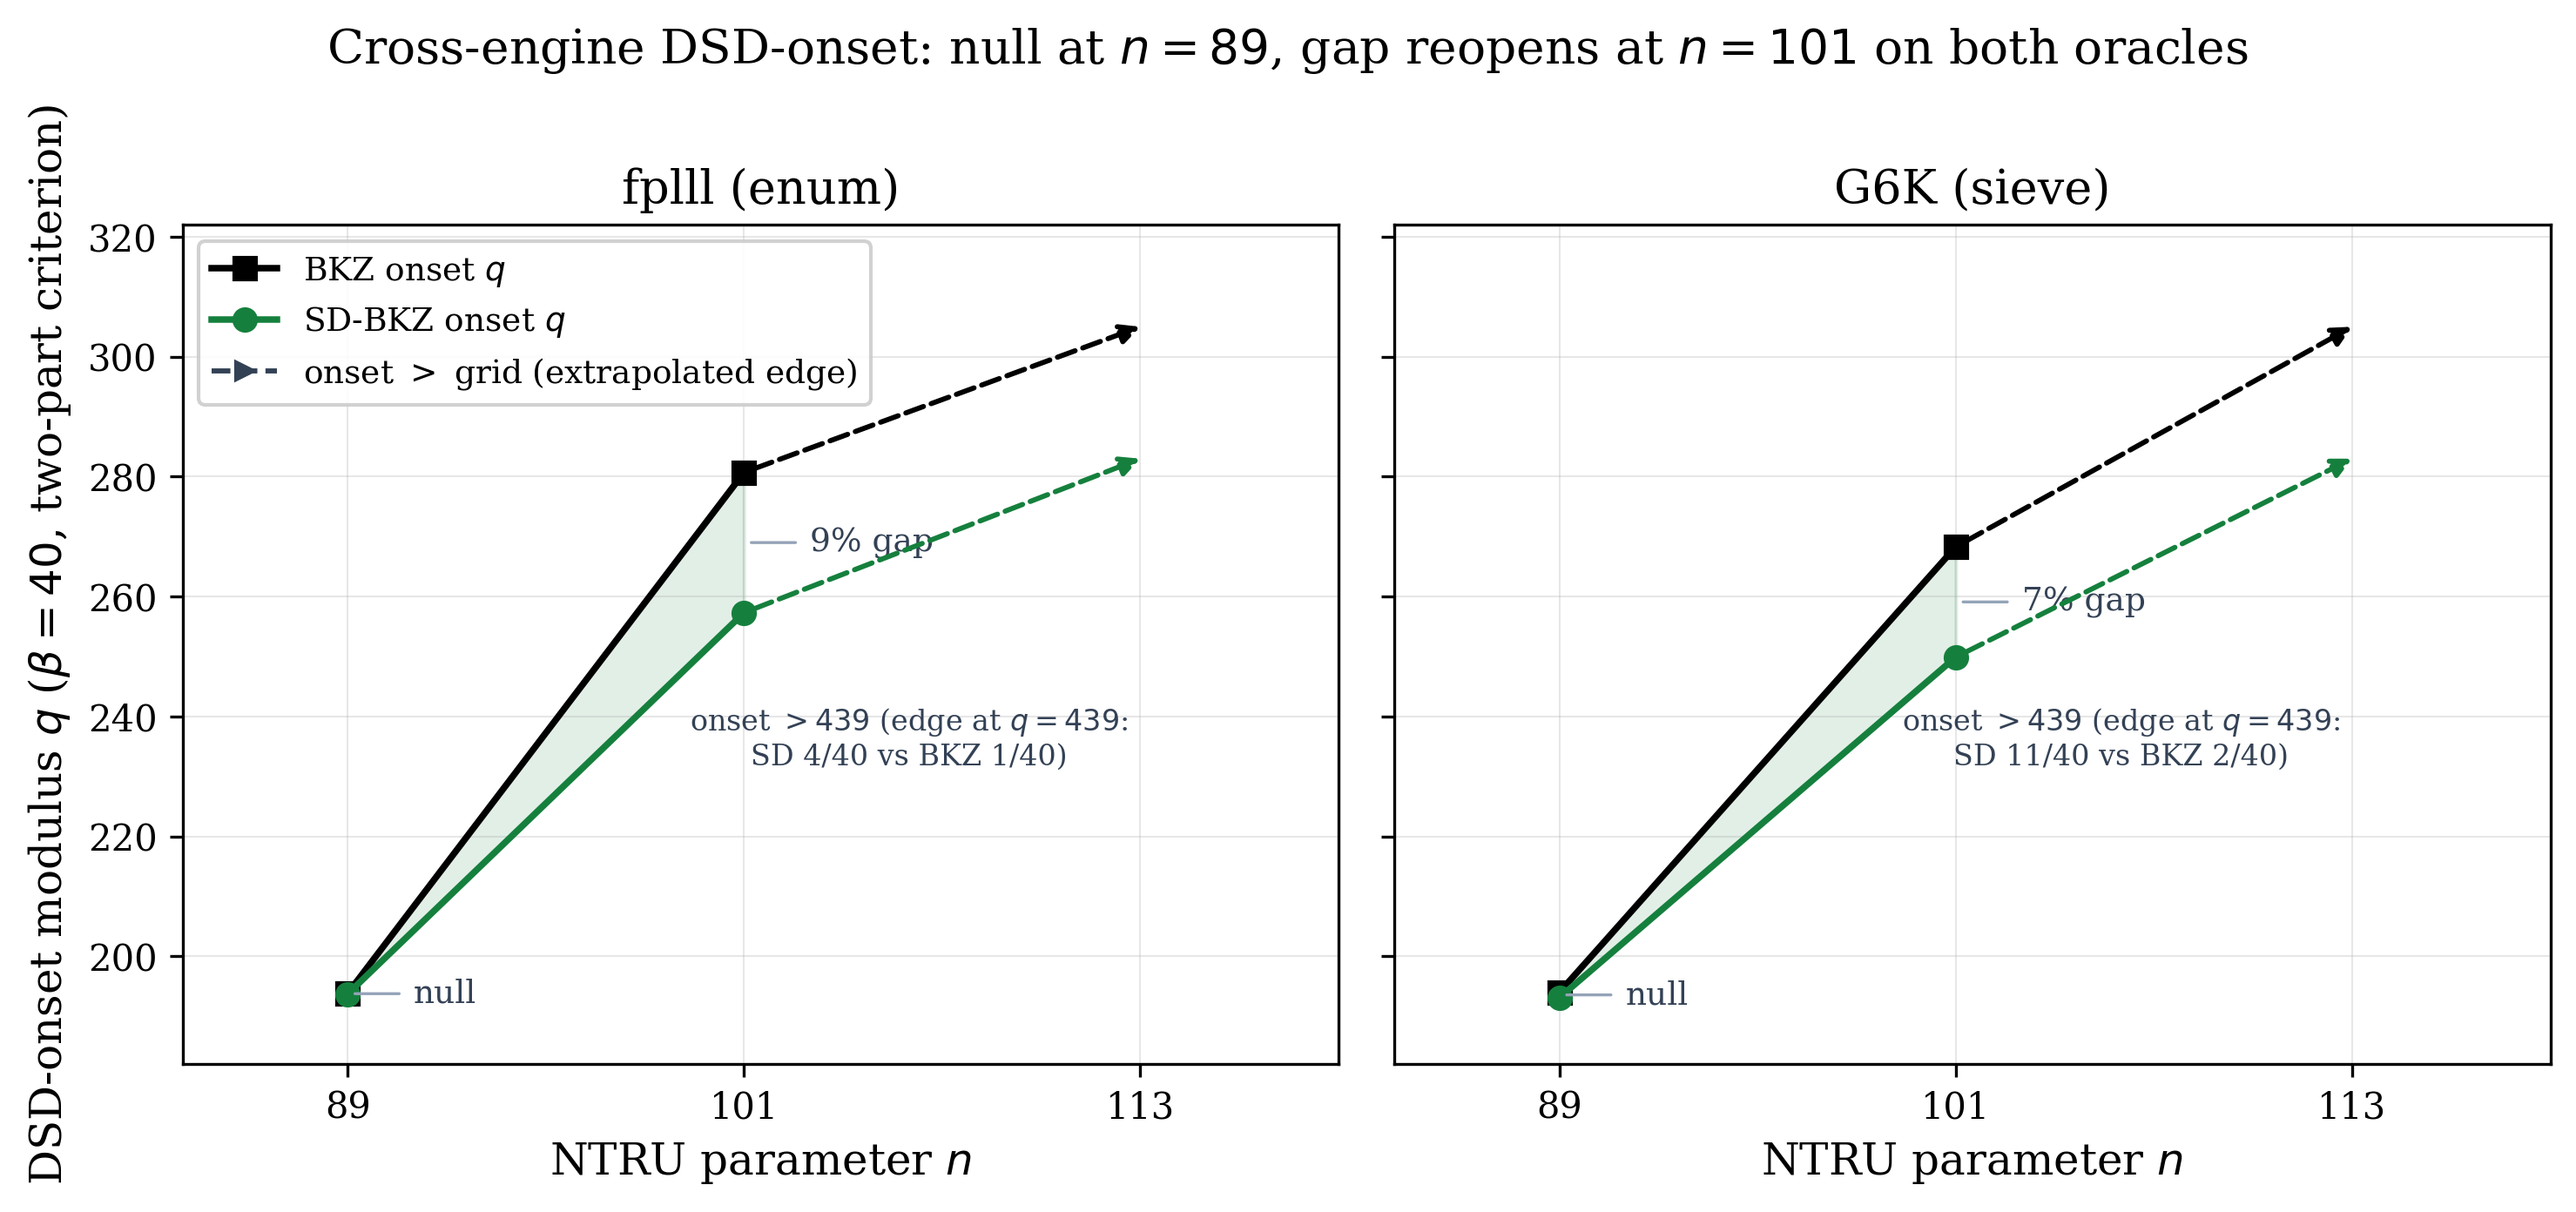
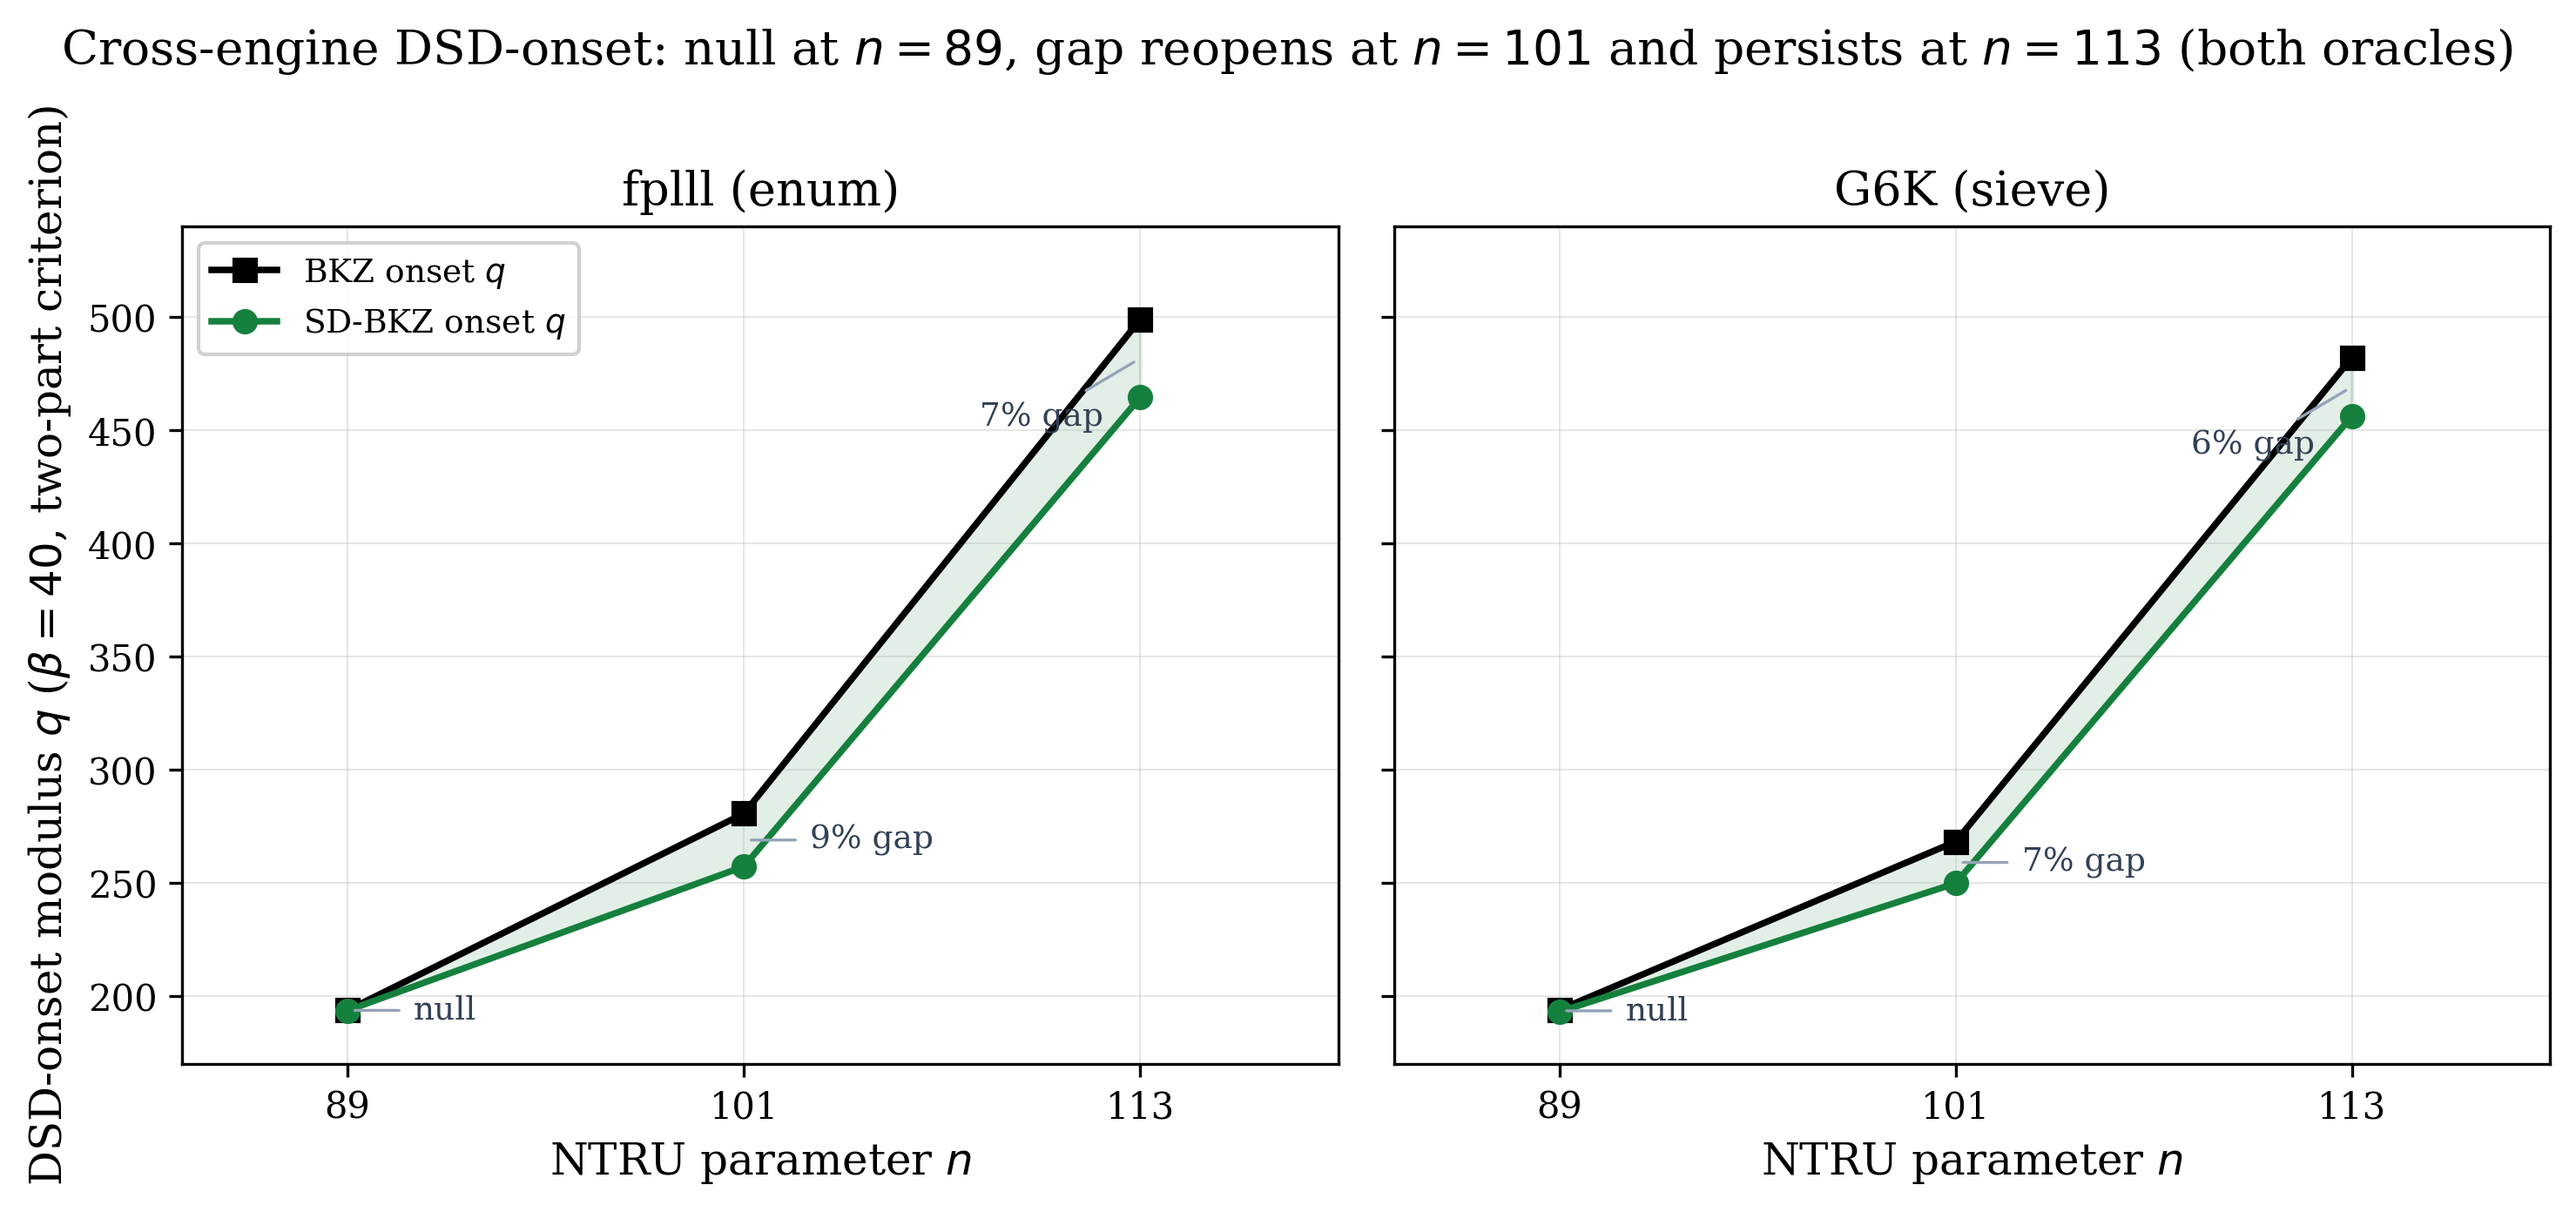
paper2(fig6): pin n=113 β40 cross-engine onset from extended q-grid
The n=113 β40 DSD-onset was drawn as a >439 edge marker because the q-grid
stopped at 439. The completed q-extension {487..859} (both engines) now
locates the onset: fplll SD 464.6 / BKZ 499.0 (7% gap), G6K SD 456.3 /
BKZ 482.2 (6% gap), bracketing q_fat(113)≈503. At the transition cell q=487
SD-BKZ fires on a strict superset of BKZ on both oracles (fplll 34/40 vs
15/40, 19:0, χ²=19.0; G6K 36/40 vs 22/40, 14:0, χ²=14.0).

- xengine_onset figure: n=113 now a pinned point, edge-arrow machinery removed.
- §6 prose + tab:xengdim + figure caption updated to the pinned values.
- tab:coverage: n=113 N_fplll 1060->1340, N_G6K 340->620; totals 6040->6320,
  2104->2384; study totals 8,144->8,704 pairs / 140->147 cells / ~5,840->6,430
  core-hours (the 560 new seeds). PDF 17pp, 0 undefined/overfull.

diff --git a/analysis/plots/ntru_xengine_onset.py b/analysis/plots/ntru_xengine_onset.py
@@ -3,29 +3,29 @@
 The whole cross-engine claim in one figure (Section 6, Tables tab:g6konset /
 tab:xengdim): reference-free two-part DSD-onset modulus q vs n at beta=40 on
 BOTH oracles. n=89 is an honest null (SD ~ BKZ ~ q194, dense window 100
-seeds/cell); the gap reopens at n=101 (9% fplll, 7% G6K, N=40/cell); n=113 is
-edge evidence -- the 50% onset lies above the q<=439 grid, only q=439 fires
-(SD 4/40 vs BKZ 1/40 fplll; 11/40 vs 2/40 G6K), so it is drawn as a >439 edge
-marker, not a pinned point. Constants mirror the paper-2 tables (seed-backed
-via extract_dsd_onset.py --engine {fplll,g6k}); figure and tables never disagree.
+seeds/cell); the gap reopens at n=101 (9% fplll, 7% G6K, N=40/cell) and persists
+at n=113 (7% fplll, 6% G6K, N=40/cell) -- where the extended q-grid {487..859}
+now LOCATES the onset (fplll SD 464.6 / BKZ 499.0; G6K SD 456.3 / BKZ 482.2),
+so n=113 is drawn as a pinned point, not a >grid edge marker. On both oracles
+and all three n the SD-BKZ onset q sits at or below the BKZ onset q -- SD-BKZ
+finds the dense sublattice at the same or lower overstretch. The n=113 onset
+brackets the fatigue estimate q_fat(113) ~= 503. Constants mirror the paper-2
+tables (seed-backed via extract_dsd_onset.py --engine {fplll,g6k}); figure and
+tables never disagree.
 """
 import os
 
 import matplotlib.pyplot as plt
-from matplotlib.lines import Line2D
 
 from .._style import COLORS
 
-# engine -> [(n, SD onset q, BKZ onset q, label)] for the pinned cells (89,101)
+# engine -> [(n, SD onset q, BKZ onset q, gap label)] -- all seed-backed 50%
+# DSD-rate crossings from extract_dsd_onset.py --engine {fplll,g6k}.
 PINNED = {
-    "fplll (enum)":  [(89, 193.7, 193.8, "null"), (101, 257.3, 280.7, "9%")],
-    "G6K (sieve)":   [(89, 193.1, 194.0, "null"), (101, 249.9, 268.3, "7%")],
-}
-# engine -> (n=113 edge: SD fire / BKZ fire out of 40 at q=439); onset is >439
-EDGE_Q = 439
-EDGE = {
-    "fplll (enum)": (4, 1),
-    "G6K (sieve)":  (11, 2),
+    "fplll (enum)":  [(89, 193.7, 193.8, "null"), (101, 257.3, 280.7, "9%"),
+                      (113, 464.6, 499.0, "7%")],
+    "G6K (sieve)":   [(89, 193.1, 194.0, "null"), (101, 249.9, 268.3, "7%"),
+                      (113, 456.3, 482.2, "6%")],
 }
 
 
@@ -43,48 +43,28 @@ def fig_ntru_xengine_onset(output_dir=".", fname="xengine_onset.png"):
         ax.plot(ns, sd, color=sd_c, marker="o", markersize=6, linewidth=1.8,
                 label="SD-BKZ onset $q$", zorder=3)
         ax.fill_between(ns, sd, bkz, color=sd_c, alpha=0.12, zorder=1)
-        # gap / null labels on the pinned cells
+        # gap / null labels on each pinned cell
         for n, s, b, lbl in rows:
             ymid = (s + b) / 2
-            # leader line so "null" / "9%" point at the cell they describe.
             txt = lbl if lbl == "null" else f"{lbl} gap"
-            ax.annotate(txt, xy=(n, ymid), xytext=(n + 2.0, ymid),
-                        fontsize=9, color="#334155", va="center",
+            # n=113 sits high on the axis -- drop its label below the points so
+            # it never collides with the top frame; others to the right.
+            xytext = (n - 3.0, ymid - 26) if n == 113 else (n + 2.0, ymid)
+            ha = "center" if n == 113 else "left"
+            ax.annotate(txt, xy=(n, ymid), xytext=xytext,
+                        fontsize=9, color="#334155", va="center", ha=ha,
                         arrowprops=dict(arrowstyle="-", color="#94a3b8",
                                         lw=0.8))
-        # n=113 edge: the onset lies above the q<=439 grid (unpinned). Continue
-        # each line from n=101 as a DASHED up-arrow running off the top axis --
-        # "rises beyond the plotted range (>439)" -- rather than as floating
-        # disconnected markers. The arrows are kept SEPARATED (SD below BKZ) so
-        # the gap persists into the edge, matching the edge data (SD fires more
-        # often than BKZ at q=439); converging arrows would imply the gap closes.
-        sfire, bfire = EDGE[engine]
-        ax.annotate("", xy=(113, 305), xytext=(101, bkz[-1]),
-                    arrowprops=dict(arrowstyle="-|>", color=bkz_c, lw=1.4,
-                                    ls="--", shrinkA=3, shrinkB=0))
-        ax.annotate("", xy=(113, 283), xytext=(101, sd[-1]),
-                    arrowprops=dict(arrowstyle="-|>", color=sd_c, lw=1.4,
-                                    ls="--", shrinkA=3, shrinkB=0))
-        ax.annotate(f"onset $>439$ (edge at $q{{=}}439$:\nSD {sfire}/40 vs "
-                    f"BKZ {bfire}/40)", xy=(113, 283), xytext=(106, 232),
-                    fontsize=8, ha="center", color="#334155")
         ax.set_title(engine)
         ax.set_xlabel("NTRU parameter $n$")
         ax.set_xticks([89, 101, 113])
         ax.set_xlim(84, 119)
-        ax.set_ylim(182, 322)
+        ax.set_ylim(170, 540)
 
     axes[0].set_ylabel(r"DSD-onset modulus $q$ ($\beta=40$, two-part criterion)")
-    # explain the dashed up-arrows: they are NOT measured points, they mark the
-    # onset rising above the q<=439 grid at n=113 (edge evidence only).
-    dashed_proxy = Line2D([0], [0], color="#334155", lw=1.4, ls="--",
-                          marker=">", markersize=5,
-                          label="onset $>$ grid (extrapolated edge)")
-    handles, labels = axes[0].get_legend_handles_labels()
-    axes[0].legend(handles + [dashed_proxy], labels + [dashed_proxy.get_label()],
-                   loc="upper left", framealpha=0.9, fontsize=9)
+    axes[0].legend(loc="upper left", framealpha=0.9, fontsize=9)
     fig.suptitle(r"Cross-engine DSD-onset: null at $n=89$, gap reopens at "
-                 r"$n=101$ on both oracles", y=1.0)
+                 r"$n=101$ and persists at $n=113$ (both oracles)", y=1.0)
 
     os.makedirs(output_dir, exist_ok=True)
     out = os.path.join(output_dir, fname)

diff --git a/paper2/latex/sdbkz_paper2.tex b/paper2/latex/sdbkz_paper2.tex
@@ -298,8 +298,8 @@ enumeration and sieve oracles.
 \caption{Experimental coverage. Circulant NTRU (lattice dimension $2n$), each seed a
 matched BKZ / SD-BKZ reduction, on two oracles: fplll enumeration and G6K sieve.
 Default 50 tours, fpylll precision 250 bits (high-$q$ cells at $n\ge89$ use 500--1000
-bits). Totals: 8{,}144 seed pairs over 140 $(n,\beta,q)$ cells, $q\in[97,1811]$,
-$\approx$5{,}840 core-hours. The $n=127$ row also carries 12 Kahan-patched validation
+bits). Totals: 8{,}704 seed pairs over 147 $(n,\beta,q)$ cells, $q\in[97,1811]$,
+$\approx$6{,}430 core-hours. The $n=127$ row also carries 12 Kahan-patched validation
 seeds (Appendix~\ref{sec:kahan}).}
 \label{tab:coverage}
 \centering
@@ -316,10 +316,10 @@ $n$ & $2n$ & $\beta$ & \#$q$ & $q$ range & $N_{\mathrm{fplll}}$ & $N_{\mathrm{G6
 83  & 166 & 20    & 1  & 97        & 20   & --   \\
 89  & 178 & 20,40 & 31 & 97--691   & 2508 & 1580 \\
 101 & 202 & 20,40 & 23 & 97--541   & 1480 & 140  \\
-113 & 226 & 20,40 & 25 & 97--1279  & 1060 & 340  \\
+113 & 226 & 20,40 & 25 & 97--1279  & 1340 & 620  \\
 127 & 254 & 20    & 16 & 547--1811 & 152  & --   \\
 \midrule
-\multicolumn{5}{r}{total} & 6040 & 2104 \\
+\multicolumn{5}{r}{total} & 6320 & 2384 \\
 \bottomrule
 \end{tabular}
 \end{table}
@@ -638,26 +638,30 @@ McNemar $\chi^2_1=21.16$; G6K $17{:}0$, $\chi^2_1=17.00$; the $17{:}0$ zero-cell
 split is also significant under an exact sign test, $p\approx1.5\times10^{-5}$).
 We treat the
 matched-$\beta$ null as established at $n=89$ and the gap as established on
-\emph{both} engines at $n=101$. At $n=113$ the $50\%$ onset lies above the grid
-(only $q=439$ fires), but the edge stays directional and cross-engine---at $q=439$ SD-BKZ fires on
-$4/40$ seeds vs BKZ's $1/40$ (fplll) and $11/40$ vs $2/40$ (G6K)---sub-onset
-evidence that the SD-before-BKZ direction persists at $n=113$, not a pinned gap
-(pinning it needs $q>439$; the raw counts are small, hence ``edge'').
+\emph{both} engines at $n=101$ and $n=113$. At $n=113$ the extended $q$-grid
+$\{487,\dots,859\}$ now \emph{locates} the onset on both oracles (fplll SD
+$464.6$ / BKZ $499.0$, $7\%$ gap; G6K SD $456.3$ / BKZ $482.2$, $6\%$ gap), so it
+is a pinned cross-engine gap, not an edge. At the transition cell $q=487$ SD-BKZ
+fires on a strict superset of BKZ's seeds on both oracles---fplll $34/40$ vs
+$15/40$ ($19{:}0$ discordant, McNemar $\chi^2_1=19.0$), G6K $36/40$ vs $22/40$
+($14{:}0$, $\chi^2_1=14.0$); both zero-cell splits are significant under an exact
+sign test ($p\approx1.9\times10^{-6}$ and $6.1\times10^{-5}$). The onset brackets
+the fatigue estimate $q_{\mathrm{fat}}(113)\approx503$.
 
 \begin{table}[tbp]
 \centering
 \caption{Cross-engine DSD-onset beyond $n=89$ ($\beta=40$, $N=40$ seeds/cell,
-two-part criterion). The gap is established on \emph{both} engines at $n=101$;
-at $n=113$ the onset is above the grid (edge evidence). The $n=89$
-matched-$\beta$ null is Table~\ref{tab:g6konset}.\label{tab:xengdim}}
+two-part criterion). The gap is established on \emph{both} engines at $n=101$ and
+$n=113$ (the extended $q$-grid $\{487,\dots,859\}$ locates the $n=113$ onset). The
+$n=89$ matched-$\beta$ null is Table~\ref{tab:g6konset}.\label{tab:xengdim}}
 \begin{tabular}{llccl}
 \toprule
 $n$ & engine & SD onset & BKZ onset & transition cell (SD vs BKZ fire) \\
 \midrule
 101 & fplll & 257.3 & 280.7 & $q{=}271$: $36/40$ vs $13/40$ ($24{:}1$, $\chi^2{=}21.2$) \\
 101 & G6K   & 249.9 & 268.3 & $q{=}271$: $39/40$ vs $22/40$ ($17{:}0$, $\chi^2{=}17.0$) \\
-113 & fplll & ${>}439$ & ${>}439$ & $q{=}439$: $4/40$ vs $1/40$ (edge) \\
-113 & G6K   & ${>}439$ & ${>}439$ & $q{=}439$: $11/40$ vs $2/40$ (edge) \\
+113 & fplll & 464.6 & 499.0 & $q{=}487$: $34/40$ vs $15/40$ ($19{:}0$, $\chi^2{=}19.0$) \\
+113 & G6K   & 456.3 & 482.2 & $q{=}487$: $36/40$ vs $22/40$ ($14{:}0$, $\chi^2{=}14.0$) \\
 \bottomrule
 \end{tabular}
 \end{table}
@@ -668,10 +672,10 @@ $n$ & engine & SD onset & BKZ onset & transition cell (SD vs BKZ fire) \\
 \caption{Cross-engine reference-free DSD-onset $q$ vs $n$ at $\beta=40$
 (two-part criterion), faceted by oracle (fplll enumeration, left; G6K sieve,
 right). An honest null at $n=89$ (SD${\approx}$BKZ${\approx}q{=}194$, dense
-window, 100 seeds/cell); the SD$<$BKZ gap reopens at $n=101$ on both oracles
-($9\%$ fplll, $7\%$ G6K, $N=40$/cell). At $n=113$ the onset lies above the
-$q\le439$ grid (open markers; edge fire counts at $q=439$), shown as edge
-evidence, not a pinned point. Mirrors Tables~\ref{tab:g6konset}
+window, 100 seeds/cell); the SD$<$BKZ gap reopens at $n=101$ ($9\%$ fplll, $7\%$
+G6K) and persists at $n=113$ ($7\%$ fplll, $6\%$ G6K), $N=40$/cell. The extended
+$q$-grid $\{487,\dots,859\}$ locates the $n=113$ onset (a pinned point, no longer
+a $>$grid edge). Mirrors Tables~\ref{tab:g6konset}
 and~\ref{tab:xengdim}.\label{fig:xengonset}}
 \end{figure}
 
@@ -773,8 +777,8 @@ and~\ref{fig:xengonset} from the two-part DSD criterion
 Figure~\ref{fig:crossover} from the per-seed per-tour
 \texttt{*\_dln\_per\_tour} arrays. The companion
 paper's SHA baselines are preserved: the NTRU generator and G6K engine were added
-without altering the seed JSON schema. In total the study comprises 8{,}144 matched
-BKZ / SD-BKZ reductions (Table~\ref{tab:coverage}), about 5{,}840 core-hours of
+without altering the seed JSON schema. In total the study comprises 8{,}704 matched
+BKZ / SD-BKZ reductions (Table~\ref{tab:coverage}), about 6{,}430 core-hours of
 reduction across both oracles; every cell regenerates from its named campaign.
 
 \section{Conclusion}
